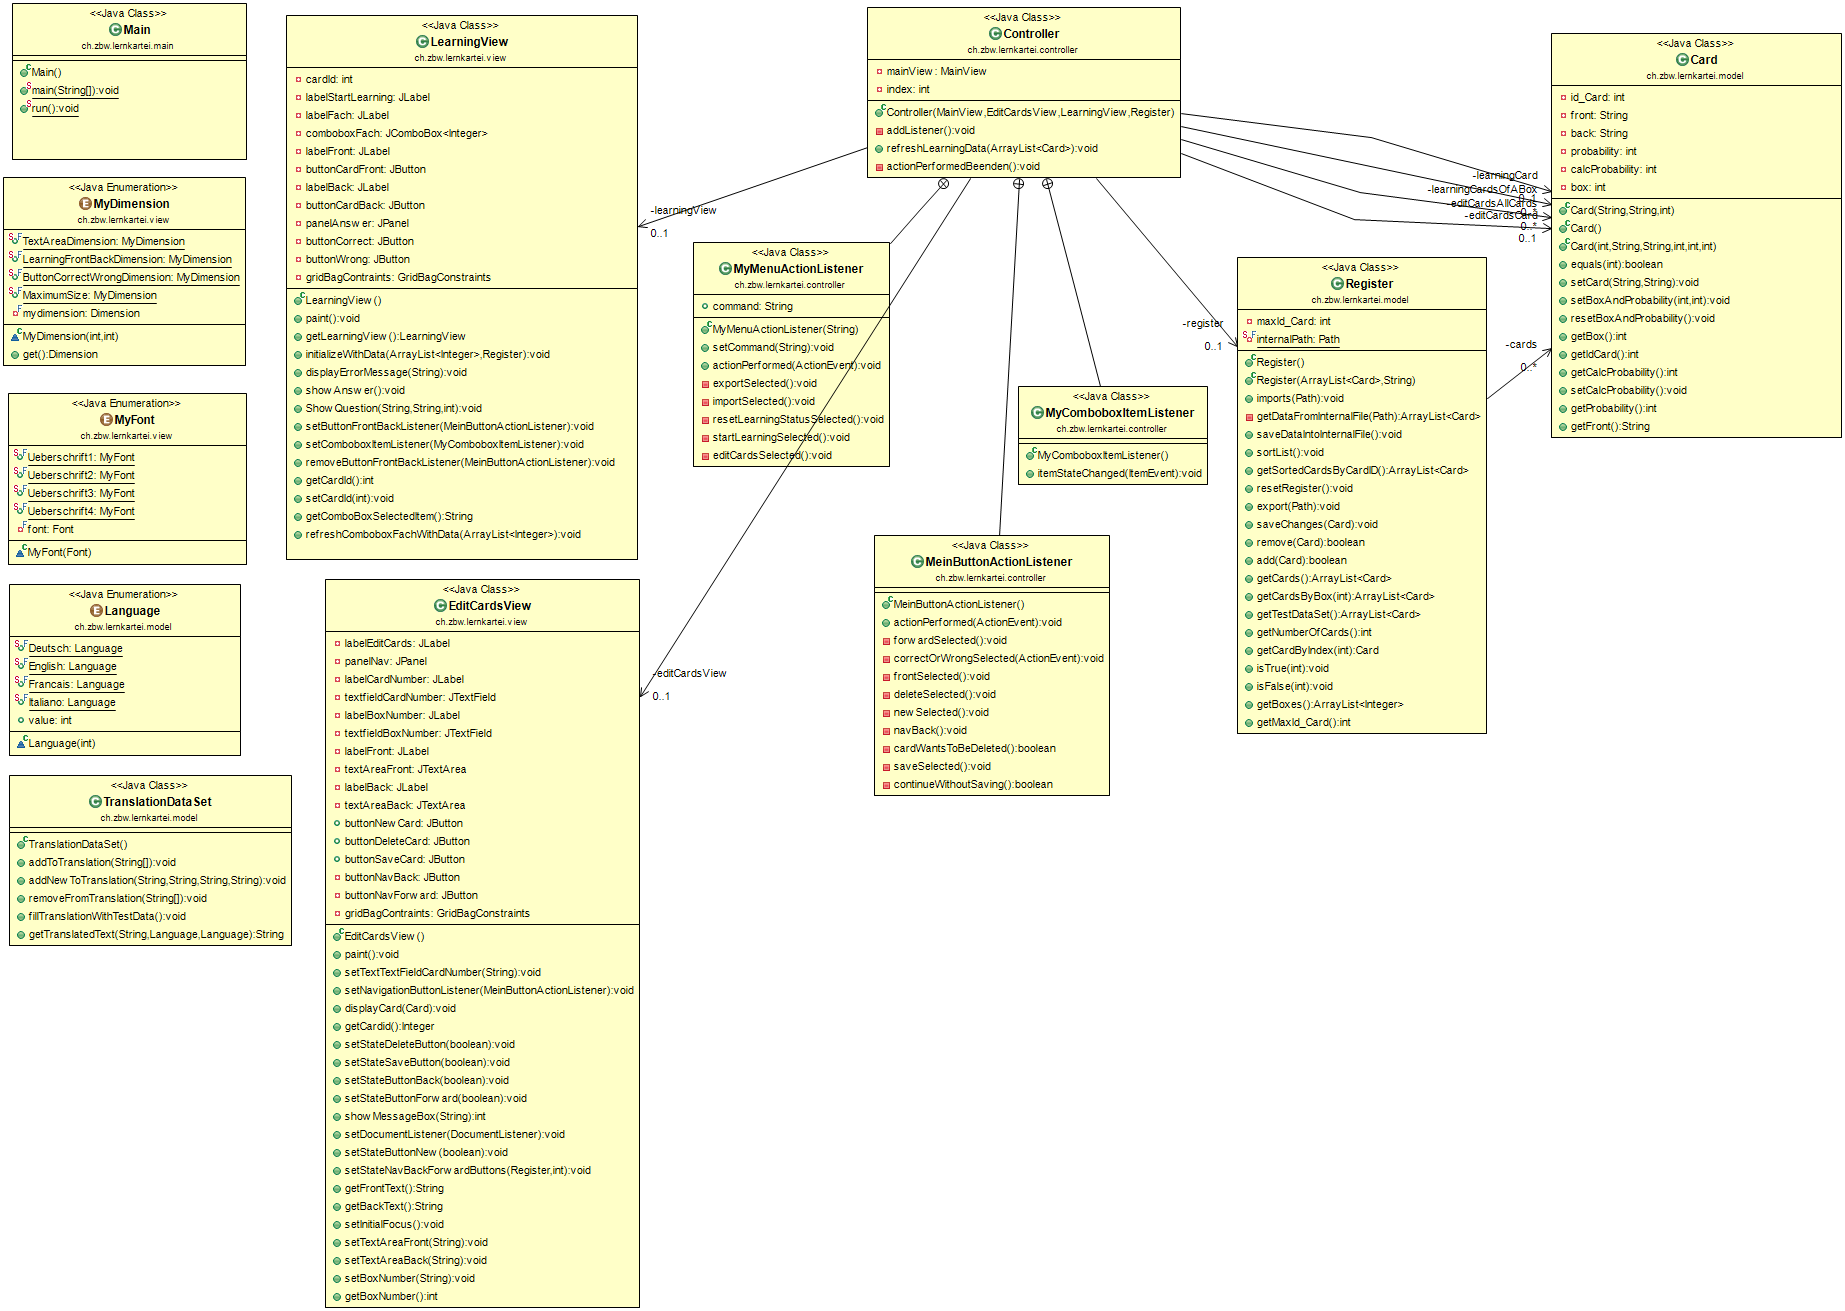
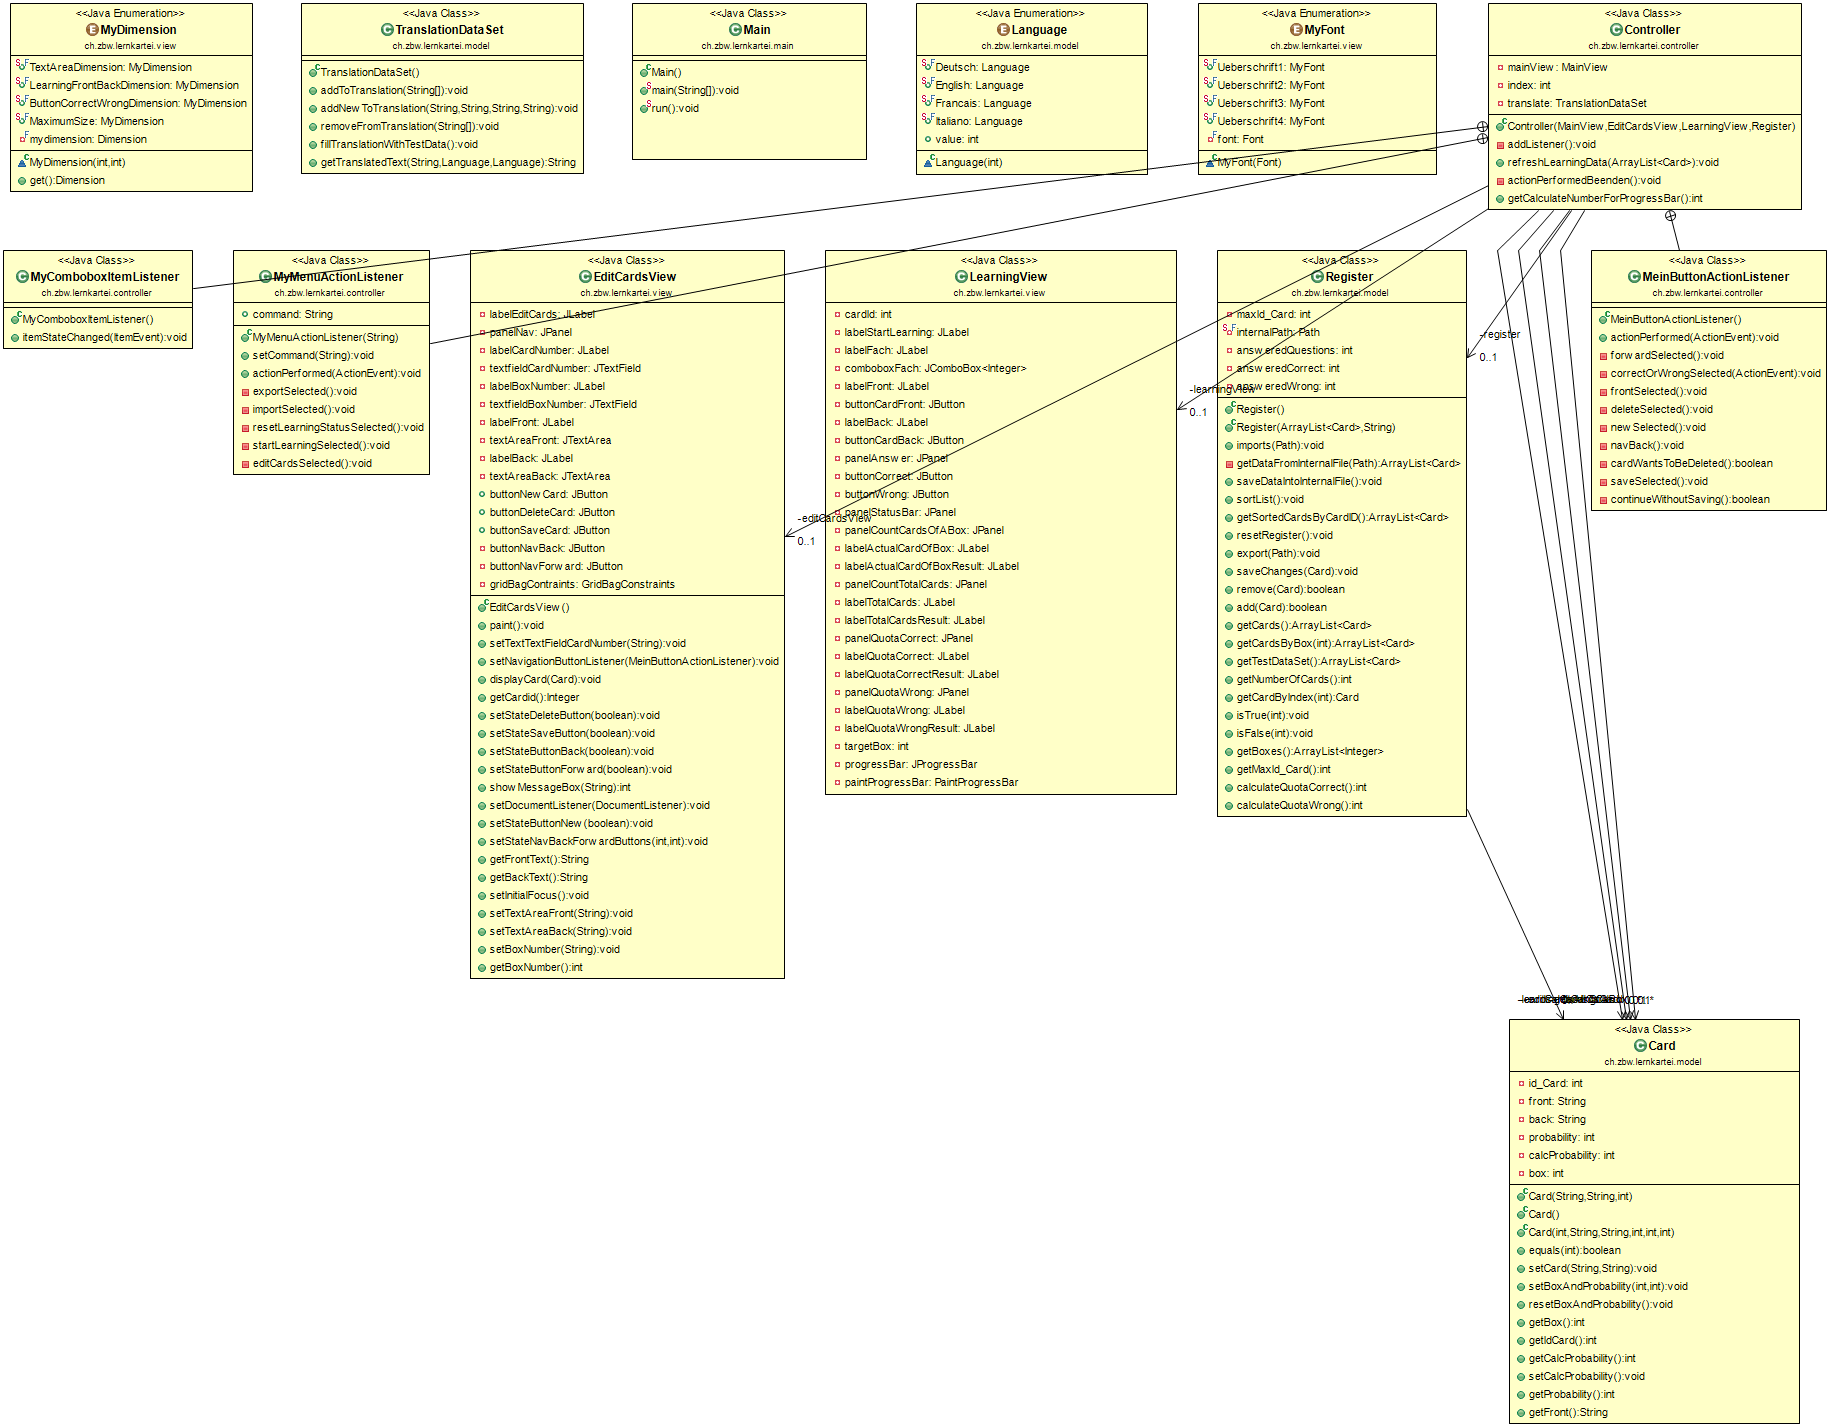
- FileFilter in eigene Klasse ausgelagert - Klassendiagramm aktualisiert - neue Übersetzungstexte hinzugefügt

diff --git a/Lernkartei/src/ch/zbw/lernkartei/view/MainView.java b/Lernkartei/src/ch/zbw/lernkartei/view/MainView.java
@@ -104,34 +104,6 @@ public class MainView extends JFrame {
 
 		this.translationArrayList = new TranslationDataSet();
 		this.jfImportFile = new JFileChooser();
-		this.jfImportFile.setFileFilter(new FileFilter() {
-			
-			@Override
-			public String getDescription() {
-				return "Files with comma-separated values (.csv)";
-			}
-			
-			@Override
-			public boolean accept(File f) {
-				if(f.isDirectory())
-					return false;
-				
-				String extension = null;		
-				int i = f.getName().lastIndexOf(".");
-				if(i > 0)
-					{
-					//Ab Position des Punktes die Dateiendung ermitteln..
-					extension = f.getName().substring(i+1);
-					}
-						
-				if(extension != null)
-				{
-					if(extension.equals("csv"))
-						return true;
-				}
-				return false;
-			}
-		});
 
 		ImageIcon imageIconBackground = new ImageIcon(this.getClass().getResource("/bg-sea.jpg"));
 		imageIconBackground.setDescription("Hintergrundbeschreibung :-)");
@@ -152,7 +124,7 @@ public class MainView extends JFrame {
 	 *  Paints the mainView
 	 */
 	public void paint() {
-		this.language = Language.Deutsch;
+		this.language = Language.Deutsch;		
 		setTitle("Vokabeltrainer R. Holderegger | E. Schwarz | D. Hafner");
 		setIconImage(new ImageIcon(this.getClass().getResource("/zbw.jpg")).getImage());
 
@@ -189,6 +161,7 @@ public class MainView extends JFrame {
 		labelImageIconBackground.add(this.labelWelcome);
 		this.add(labelImageIconBackground);
 		this.setVisible(true);
+		this.jfImportFile.setFileFilter(new MyFileFilter(this));
 	}
 
 	/** Repaints a certain Panel

diff --git a/Lernkartei/src/ch/zbw/lernkartei/controller/Controller.java b/Lernkartei/src/ch/zbw/lernkartei/controller/Controller.java
@@ -35,6 +35,7 @@ public class Controller {
 	private ArrayList<Card> editCardsAllCards;
 	private ArrayList<Card> learningCardsOfABox;
 	private int index;
+	private TranslationDataSet translate;
 
 	/** Konstructor
 	 * @param mainView
@@ -50,6 +51,7 @@ public class Controller {
 		this.register = register;
 		addListener();
 		this.mainView.paint();
+		this.translate = new TranslationDataSet();
 	}
 
 	/**
@@ -210,7 +212,10 @@ public class Controller {
 				
 				if(learningCardsOfABox.size() == 1 && learningCard.getBack().equals("") &&learningCard.getFront().equals(""))
 				{
-					throw new Exception("There are no Cards available. Please enter some Cards.");				
+					throw new Exception(translate.getTranslatedText(
+							"Es sind keine Karten vorhanden. Bitte Karten erfassen."
+							,Language.Deutsch
+							,mainView.getCurrentLanguage()));				
 				}
 				else
 				{
@@ -326,7 +331,7 @@ public class Controller {
 				learningView.refreshComboboxFachWithData(register.getBoxes());;
 			}
 			refreshLearningData(learningCardsOfABox);
-			learningView.setPercentProgressBar(calculateNumberForProgressBar());
+			learningView.setPercentProgressBar(getCalculateNumberForProgressBar());
 		}
 
 		/**
@@ -571,7 +576,7 @@ public class Controller {
 		}
 	}
 	
-	public int calculateNumberForProgressBar()
+	public int getCalculateNumberForProgressBar()
 	{
 		// 100 entspricht einem vollen Progressbar
 		// 0 = leer	

diff --git a/Lernkartei/src/ch/zbw/lernkartei/model/TranslationDataSet.java b/Lernkartei/src/ch/zbw/lernkartei/model/TranslationDataSet.java
@@ -71,7 +71,9 @@ public class TranslationDataSet extends ArrayList<String[]>{
 		this.addNewToTranslation("Total Karten   ", "Total cards   ", "Nombre de cartes   ", "Totale carte   ");
 		this.addNewToTranslation("Anteil korrekt   ", "Proportion correct   ", "Proportion correcte   ", "percentuale di corretto   ");
 		this.addNewToTranslation("Anteil falsch   ", "Proportion of false   ", "Proportion correcte   ", "percentuale di falso   ");
+		this.addNewToTranslation("Dateien mit kommagetrennten Werten (.csv)", "Files with comma-separated values (.csv)", "Fichiers avec des valeurs séparées par des virgules (.csv)", "I file con valori separati da virgole (.csv)");
 		this.addNewToTranslation("Du hast dein Lernziel erreicht!", "You have reached your learning goal!", "Vous avez atteint votre objectif d'apprentissage!", "Hai raggiunto il tuo obiettivo di apprendimento!");
+		this.addNewToTranslation("Es sind keine Karten vorhanden. Bitte Karten erfassen.", "There are no Cards available. Please enter some Cards.", "Il n'y a pas de cartes disponibles. Se il vous plaît entrer certaines cartes.", "Non ci sono carte disponibili. Si prega di inserire alcuni Cards.");
 	}
 	
 	/** Gets the translated Text of a Word (Originaltext)
